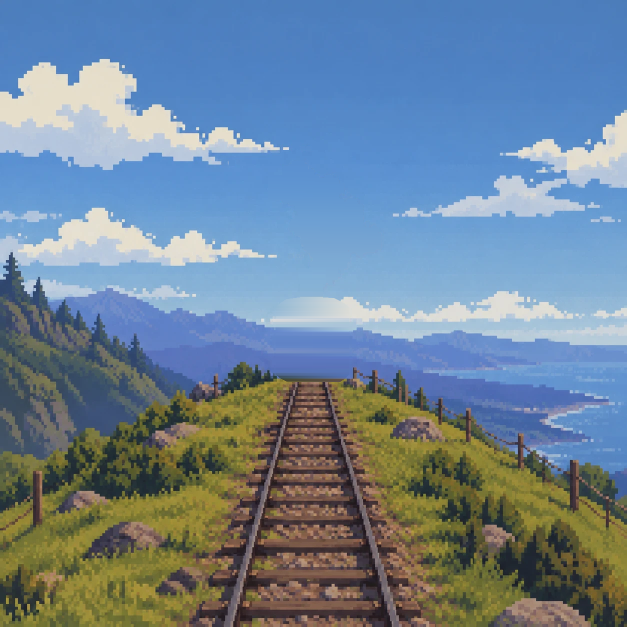
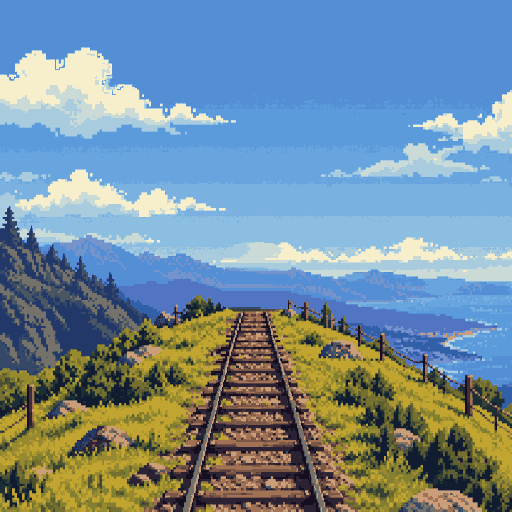
Fondo generado con PixelLab Pro, en capas (cielo, nubes, pinos)

diff --git a/index.html b/index.html
@@ -127,7 +127,7 @@ const SPR = {ax: 36.5, ay: 108.5, w: 74, h: 110, lamp: [36.5, 27], chimney: [36.
 const CAPTIONS = [];                                              // sin subtítulos
 
 // vía recta de frente: la locomotora asoma por la cresta y se acerca por el eje; la escala sale de la perspectiva de los rieles
-const CX = 312, CREST = 379, Y0 = 332, S0 = 46, S_MAX = 13;
+const CX = 311, CREST = 378, Y0 = 322, S0 = 56, S_MAX = 13;
 const lerp = (a, b, t) => a + (b - a) * t, clamp = (v, a = 0, b = 1) => Math.min(b, Math.max(a, v));
 const smooth = (a, b, v) => { const t = clamp((v - a) / (b - a)); return t * t * (3 - 2 * t); };
 function trainAt(t) {
@@ -147,7 +147,7 @@ function drawTrain(tr) {
 // nubes: capa propia que deriva despacio; copias espejadas a los lados para que no haya corte
 const CLOUD_PX_S = 3;
 function drawSky(ms) {
-  sm(S / 2 < 1); ctx.drawImage(cielo, 0, 0, WW, WH);
+  sm(S * WW / cielo.width < 1); ctx.drawImage(cielo, 0, 0, WW, WH);
   const dx = ms / 1000 * CLOUD_PX_S, base = Math.floor(-dx / WW);
   for (const n of [base, base + 1]) {
     const x = n * WW + dx;

diff --git a/src/build_fondo.py b/src/build_fondo.py
@@ -1,0 +1,67 @@
+"""Capas del fondo generado con PixelLab Pro (src/fondos/pro.png, 512x512):
+cielo.png (cielo limpio), nubes.png (capa de nubes con alfa), primer-plano.png (pinos, van por delante de las nubes),
+bg.png (escena entera, fondo de la bio). Las capas salen a 1024 px (x2, vecino más cercano)."""
+import numpy as np, os
+from PIL import Image, ImageFilter
+here = os.path.dirname(os.path.abspath(__file__))
+out_dir = f"{here}/../web/" if os.path.isdir(f"{here}/../web") else f"{here}/../"
+ref = Image.open(f"{here}/fondos/pro.png").convert("RGB"); W, H = ref.size
+a = np.array(ref).astype(int)
+SKY_ROWS = 232                                                  # por debajo: cordillera, bruma del horizonte y suelo (fijos)
+valid = (a[:, :, 0] < 140) & (a[:, :, 2] > a[:, :, 1] + 10) & (a[:, :, 1] > 105) & (a[:, :, 2] > 165)
+xs = np.arange(W)
+coef = np.full((SKY_ROWS, 3, 2), np.nan)
+for y in range(SKY_ROWS):
+    m = valid[y]
+    if m.sum() >= 25:
+        for c in range(3): coef[y, c] = np.polyfit(xs[m], a[y, m, c], 1)[::-1]
+rows = np.arange(SKY_ROWS)
+for c in range(3):
+    for k in range(2):
+        col = coef[:, c, k]; ok = ~np.isnan(col)
+        col = np.interp(rows, rows[ok], col[ok])
+        coef[:, c, k] = np.convolve(np.pad(col, 6, mode="edge"), np.ones(13) / 13, mode="valid")
+skymap = np.zeros((H, W, 3))
+for y in range(SKY_ROWS): skymap[y] = coef[y, :, 0][None, :] + coef[y, :, 1][None, :] * xs[:, None]
+def mf(m, n): return np.array(Image.fromarray((m * 255).astype("uint8")).filter(ImageFilter.MaxFilter(n))) > 0
+def nf(m, n): return np.array(Image.fromarray((m * 255).astype("uint8")).filter(ImageFilter.MinFilter(n))) > 0
+cloud = np.zeros((H, W), bool); cloud[:SKY_ROWS] = a[:SKY_ROWS, :, 0] >= 140
+cloud = mf(cloud, 3); cloud[SKY_ROWS:] = False
+prot = np.zeros((H, W), bool); prot[:SKY_ROWS, :135] = a[:SKY_ROWS, :135].sum(2) < 400         # pinos de la ladera
+cloud &= ~prot
+# restos sueltos de nube (menos de 25 px)
+seen = np.zeros((H, W), bool)
+for y0 in range(SKY_ROWS):
+    for x0 in np.where(cloud[y0] & ~seen[y0])[0]:
+        if seen[y0, x0]: continue
+        comp, st = [], [(y0, x0)]; seen[y0, x0] = True
+        while st:
+            y, x = st.pop(); comp.append((y, x))
+            for dy, dx in ((1, 0), (-1, 0), (0, 1), (0, -1)):
+                yy, xx = y + dy, x + dx
+                if 0 <= yy < H and 0 <= xx < W and cloud[yy, xx] and not seen[yy, xx]: seen[yy, xx] = True; st.append((yy, xx))
+        if len(comp) < 25:
+            for y, x in comp: cloud[y, x] = False
+sky = a.copy()
+sky[cloud] = skymap[cloud]
+layer = np.zeros((H, W, 4), np.uint8); layer[:, :, :3] = a
+# la nube pasa por detrás de los pinos: se rellena el hueco que dejan, con color de nube lejos de su contorno
+closed = nf(mf(cloud, 13), 13)
+protd = mf(prot, 7)
+fill = protd & closed & ~cloud
+def boxsum(m, r):
+    c = np.pad(m, ((r + 1, r), (r + 1, r))).cumsum(0).cumsum(1)
+    return c[2 * r + 1:, 2 * r + 1:] - c[:-2 * r - 1, 2 * r + 1:] - c[2 * r + 1:, :-2 * r - 1] + c[:-2 * r - 1, :-2 * r - 1]
+src = cloud & ~protd
+done = np.zeros((H, W), bool)
+for r in (6, 16, 37):
+    cw = boxsum(src.astype(float), r)
+    todo = protd & (cloud | fill) & (cw > 0) & ~done
+    for c in range(3): layer[:, :, c] = np.where(todo, boxsum(a[:, :, c] * src, r) / np.maximum(cw, 1), layer[:, :, c])
+    done |= todo
+layer[:, :, 3] = (cloud | fill) * 255
+fg = np.zeros((H, W, 4), np.uint8); fg[:, :, :3] = a; fg[:, :, 3] = prot * 255
+up = lambda arr, mode: Image.fromarray(arr.astype("uint8"), mode).resize((W * 2, H * 2), Image.NEAREST)
+up(sky, "RGB").save(f"{out_dir}cielo.png"); up(layer, "RGBA").save(f"{out_dir}nubes.png"); up(fg, "RGBA").save(f"{out_dir}primer-plano.png")
+ref.save(f"{out_dir}bg.png")
+print("ok", W * 2)
